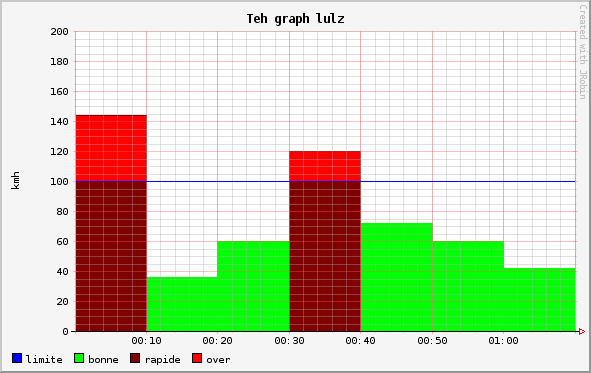
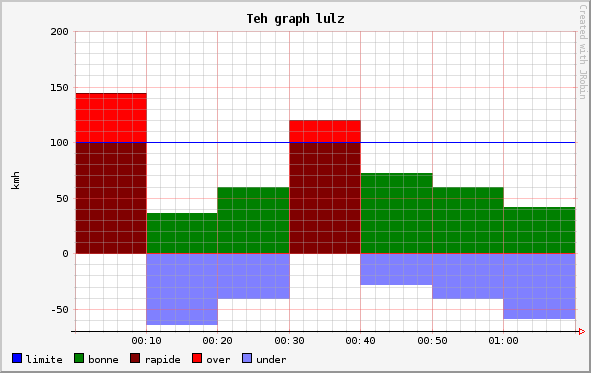
Problem with Entropy maven dependencies solved

diff --git a/JRobinTest/src/main/java/fr/agarnier/jrobintest/App.java b/JRobinTest/src/main/java/fr/agarnier/jrobintest/App.java
@@ -27,9 +27,9 @@ public class App {
 
     public static void main(String[] args) throws Exception {
         App.setVITESSES();
-        App.setWATT();
+        long startTime = App.setWATT();
         App.graphTest();
-        App.graphWatt();
+        App.graphWatt(startTime - 5);
     } // static void main(String[])
 
     private static void setVITESSES() {
@@ -51,7 +51,7 @@ public class App {
         App.VITESSES.put(new Long(1051485300), new Double(12423));
     }
 
-    private static void setWATT() {
+    private static long setWATT() {
         App.WATT = new LinkedHashMap<Long, Double>();
         App.WATT.put(1303217652180L, 27.8D);
         App.WATT.put(1303217657974L, 27.6D);
@@ -70,7 +70,7 @@ public class App {
         App.WATT.put(1303217733317L, 28.7D);
         App.WATT.put(1303217739101L, 28.3D);
         App.WATT.put(1303217744890L, 28.5D);
-        App.lol();
+        return App.lol();
     }
 
     private static void graphTest() throws RrdException, IOException {
@@ -101,25 +101,28 @@ public class App {
         gDef.datasource("bonne", "kmh,100,GT,0,kmh,IF");
         gDef.datasource("rapide", "kmh,100,GT,kmh,0,IF");
         gDef.datasource("over", "kmh,100,GT,100,kmh,-,0,IF");
+        gDef.datasource("under", "kmh,100,GT,0,kmh,100,-,IF");
         gDef.hrule(100, Color.BLUE, "limite");
-        gDef.area("bonne", Color.GREEN, "bonne");
+        gDef.area("bonne", new Color(0, 128, 0), "bonne");
         gDef.area("rapide", new Color(128, 0, 0), "rapide");
         gDef.stack("over", Color.RED, "over");
+        gDef.stack("under", new Color(128, 128, 255), "under");
         gDef.setImageFormat("png");
 
         // then actually draw the graph
         RrdGraph graph = new RrdGraph(gDef); // will create the graph in the path specified
     }
 
-    private static void graphWatt() throws RrdException, IOException {
+    private static void graphWatt(long startTime) throws RrdException, IOException {
 
-        long startTime = (1303217634820L / 1000) - 4;
         RrdDef rrdDef = new RrdDef(PACKAGE, startTime, 5);
         rrdDef.addDatasource("Watt", DT_GAUGE, 5, 0, Double.NaN);
         rrdDef.addArchive(CF_LAST, 0.5, 1, 20);
+        rrdDef.addArchive(CF_AVERAGE, 0.5, 5, 20);
 
         RrdDb rrdDb = new RrdDb(rrdDef);
         Sample sample = rrdDb.createSample();
+        int i = 0;
         for (Map.Entry<Long, Double> e : App.WATT.entrySet()) {
             sample.setTime(e.getKey());
             sample.setValue("Watt", e.getValue());
@@ -131,28 +134,31 @@ public class App {
         gDef.setHeight(300);
         gDef.setFilename("src/main/resources/graphs/graphWatt.png");
         gDef.setStartTime(startTime);
-        gDef.setEndTime(startTime + 95);
+        gDef.setEndTime(startTime + 93);
         gDef.setTitle("Watt");
         gDef.setVerticalLabel("Watt");
 
         gDef.datasource("Watt", rrdDef.getPath(), "Watt", CF_LAST);
-        gDef.line("Watt", Color.RED, "Watt");
+        gDef.line("Watt", Color.BLUE, "Watt");
         gDef.setImageFormat("png");
 
         // then actually draw the graph
         RrdGraph graph = new RrdGraph(gDef); // will create the graph in the path specified
     }
 
-    static void lol() {
+    static long lol() {
+        long result = Long.MAX_VALUE;
         ConsumptionList list = new BasicConsumptionList();
         for (Map.Entry<Long, Double> e : App.WATT.entrySet()) {
-            list.addData(e.getKey(), "toto", e.getValue());
+            list.addData(e.getKey(), e.getValue());
         }
         App.WATT.clear();
         for (long time = list.getMinTime(); time < list.getMaxTime(); time += 5000) {
-            App.WATT.put(time, list.getConsumption(time));
+            long meinTime = time / 1000;
+            result = meinTime < result ? meinTime : result;
+            App.WATT.put(meinTime, list.getConsumption(time));
         }
-
+        return result;
     }
 } // class App
 
